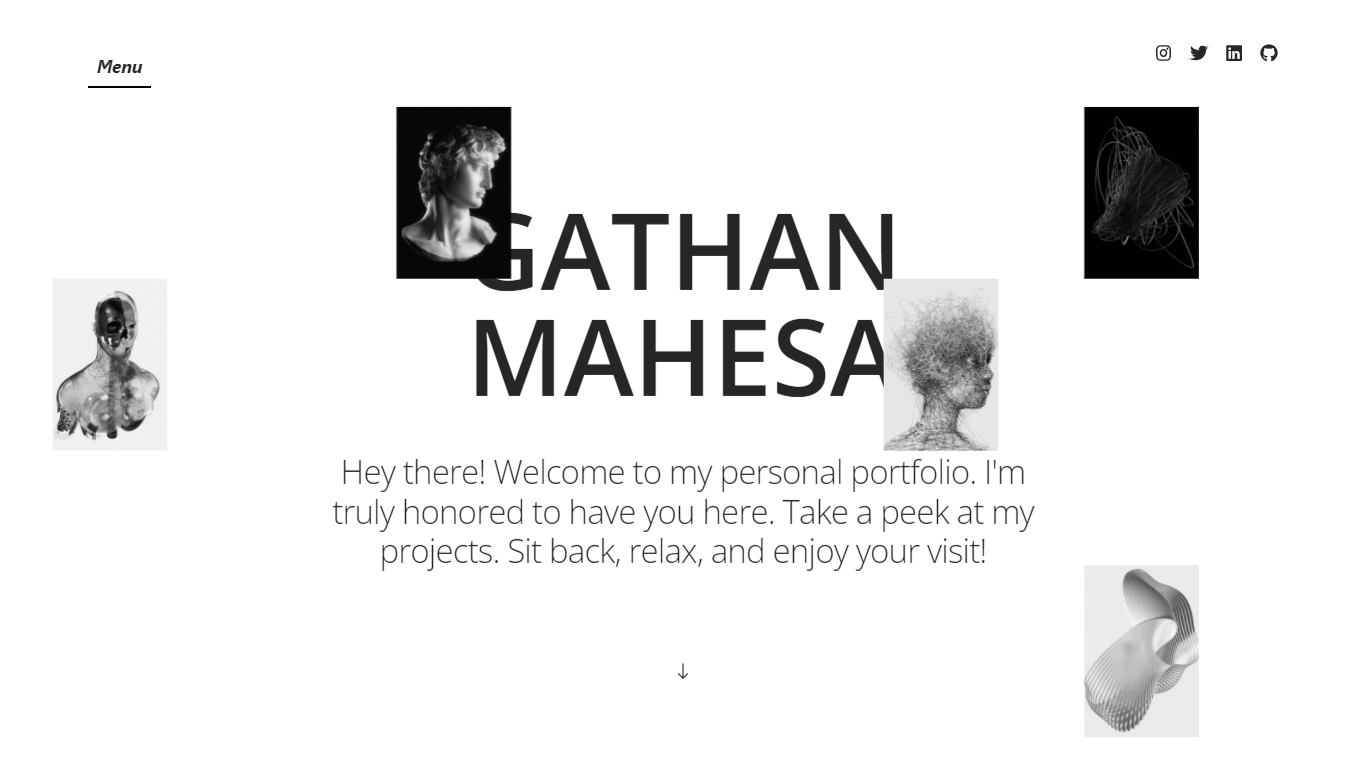
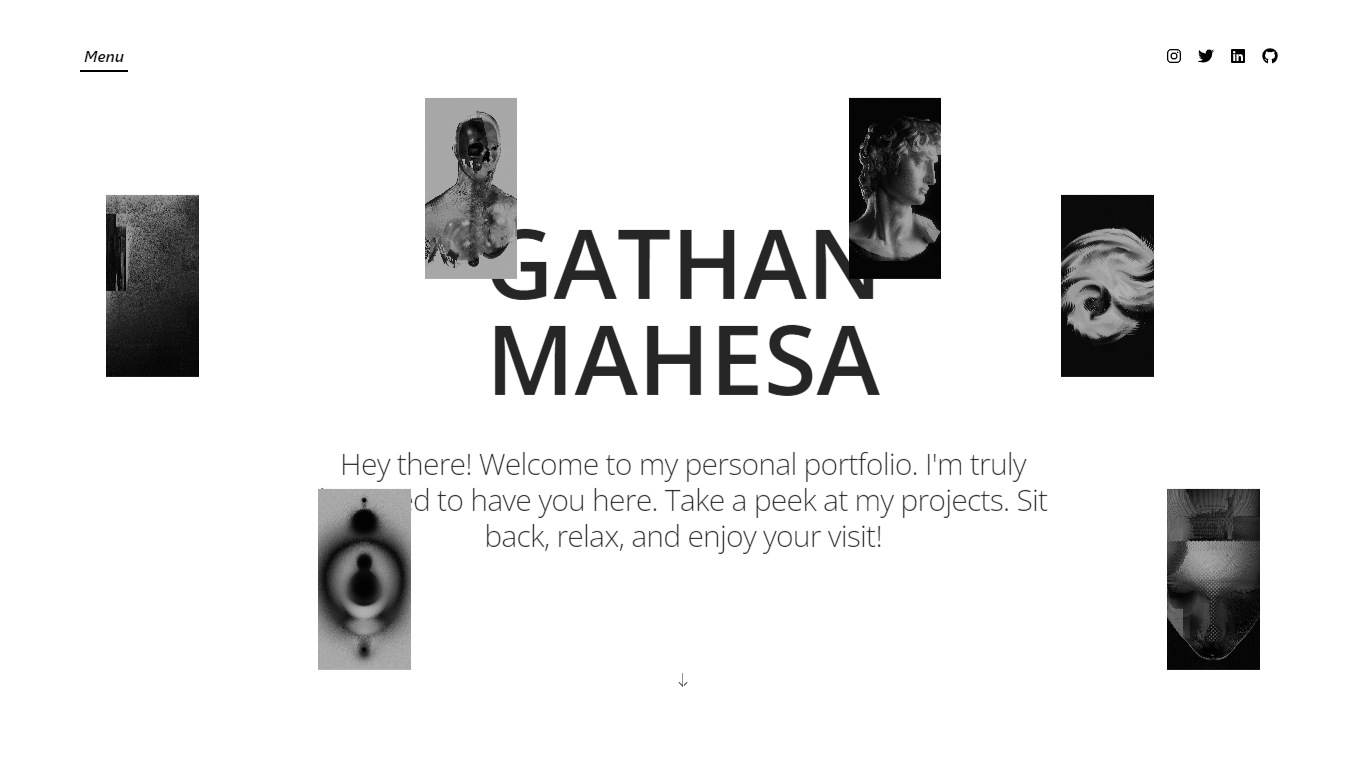
created image animation

diff --git a/src/pages/TableOfContent/Images.jsx b/src/pages/TableOfContent/Images.jsx
@@ -1,0 +1,39 @@
+import { useEffect, useRef } from "react"
+
+export default function Images(){
+  const gridContainerRef = useRef(null)
+
+  useEffect(() => {
+    let current = 0;
+    let target = 0;
+    const ease = 0.05;
+    function lerp (start, end, t){
+      return start * (1 - t) + end * t;
+    }
+
+    function setTransform(element, change) {
+      element.style.transform = change;
+    }
+
+    function smoothImageMovement (){
+      current = lerp(current, target, ease);
+      current = parseFloat(current.toFixed(5))
+      target = window.scrollY;
+      target = parseFloat(target.toFixed(5))
+      setTransform(gridContainerRef.current, `translate3d(0, ${-current / 3}px,0)`);
+      requestAnimationFrame(smoothImageMovement)
+    }
+    smoothImageMovement()  
+  },[])
+
+  return(
+    <div id ="moving-img" ref = {gridContainerRef} className="grid w-screen h-screen">
+      <div className="grid__item grid__item--a" style={{"backgroundImage":"url(/assets/3.jpg)"}}></div>
+      <div className="grid__item grid__item--b" style={{"backgroundImage":"url(/assets/1.jpg)"}}></div>
+      <div className="grid__item grid__item--c" style={{"backgroundImage":"url(/assets/4.jpg)"}}></div>
+      <div className="grid__item grid__item--d" style={{"backgroundImage":"url(/assets/5.jpg)"}}></div>
+      <div className="grid__item grid__item--e" style={{"backgroundImage":"url(/assets/8.jpg)"}}></div>
+      <div className="grid__item grid__item--f" style={{"backgroundImage":"url(/assets/6.jpg)"}}></div>  
+    </div>
+  )
+}

diff --git a/src/pages/Preload/revealer.js b/src/pages/Preload/revealer.js
@@ -14,7 +14,7 @@ export default class Revealer {
         this.layers = [];
         [...document.querySelectorAll('.layers__item')].forEach(item => this.layers.push(new ImageLayer(item)));
         this.layersTotal = this.layers.length;
-        // this.gridItems = [...document.querySelectorAll('.grid__item')];
+        this.gridItems = [...document.querySelectorAll('.grid__item')];
         this.options = {
             duration: 1.25,
             panelDelay: 0.25
@@ -49,12 +49,12 @@ export default class Revealer {
             y: (index) => index ? '101%' : '-101%'
         }, 'halfway')
         // show grid items
-        // .fromTo(this.gridItems, {y: () => randomFloat(100,500)}, {
-        //     duration: this.options.duration*2,
-        //     ease: 'Expo.easeOut',
-        //     y: 0,
-        //     opacity: 1
-        // }, 'halfway');  
+        .fromTo(this.gridItems, {y: () => randomFloat(100,500)}, {
+            duration: this.options.duration*2,
+            ease: 'Expo.easeOut',
+            y: 0,
+            opacity: 1
+        }, 'halfway');  
     }
     reveal() {
         this.tl.restart();

diff --git a/src/component/utils/css/animation.css b/src/component/utils/css/animation.css
@@ -102,4 +102,61 @@
 }
 
 
+.grid {
+  grid-area: 1 / 1 / 2 / 2;
+  /* width: 100%;
+  height: 93%; */
+  display: grid;
+  grid-template-columns: repeat(13,1fr);
+  grid-template-rows: repeat(8,1fr);
+  grid-gap: 1vw;
+  position: absolute;
+  z-index: 50;
+}
 
+
+.grid::after {
+	content: '';
+	height: 6rem;
+	width: 1px;
+	background: #fff;
+	position: absolute;
+	bottom: 2rem;
+	left: 50%;
+}
+
+.intro .grid::after {
+	display: none;
+}
+
+.grid__item {
+    background-size: cover;
+	background-position: center;
+    opacity: 0;
+    -webkit-filter: brightness(0.7);
+    filter: brightness(0.7);
+}
+
+.grid__item--a {
+    grid-area: 3 / 2 / 5 / 3;
+}
+
+.grid__item--b {
+    grid-area: 6 / 4 / 8 / 5;
+}
+
+.grid__item--c {
+    grid-area: 2 / 5 / 4 / 6;
+}
+
+.grid__item--d {
+    grid-area: 2 / 9 / 4 / 10;
+}
+
+.grid__item--e {
+    grid-area: 3 / 11 / 5 / 12;
+}
+
+.grid__item--f {
+    grid-area: 6 / 12 / 8 / 13;
+}

diff --git a/src/pages/TableOfContent/Table.jsx b/src/pages/TableOfContent/Table.jsx
@@ -5,7 +5,6 @@
 import { useEffect, useRef, useContext } from 'react';
 import contents from './TableOfContent.json';
 import { StateContext } from '../../states';
-import Introduction from './Introduction';
 
 const PageNumber = ({ number }) => (
   <h3 className="noto-serif text-base">{number}</h3>
@@ -51,10 +50,9 @@ const Paragraph = ({ paragraph }) => (
   </p>
 );
 
-export default function Layout() {
+export default function Table() {
   return (
     <>
-    <Introduction/>
       {contents.map((content, index) => (
         <section key={index} className="w-screen h-auto transition-opacity duration-500 flex flex-col justify-center items-center gap-10">
           <PageNumber number={index + 1} />

diff --git a/index.html b/index.html
@@ -9,7 +9,7 @@
     
     <meta property="og:title" content="Gathan Mahesa - Frontend Developer"/>
     <meta property="og:description" content="Gathan Mahesa is a web developer that specialize in user interface, motions,animations, and dynamic user experiences."/>
-    <meta property="og:image" content="https://github.com/gthnmp/gathan.vercel.app/blob/master/public/assets/preview/gathan.vercel.app.png?raw=true"/>
+    <meta property="og:image" content="https://github.com/gthnmp/gathan.vercel.app/blob/master/public/assets/preview/share.png?raw=true"/>
     
     <link rel="icon" type="image/svg+xml" href="/logo.svg" />
     <link rel="preconnect" href="https://fonts.googleapis.com">

diff --git a/src/component/SmoothWrapper.jsx b/src/component/SmoothWrapper.jsx
@@ -8,7 +8,7 @@ const SmoothWrapper = ({ className: additionalClassNames, ...props }) => {
   let target = 0;
   let ease = 0.5;
   const defaultClassName =
-    'fixed will-change-transform top-0 w-screen bg-white text-neutral-800 h-max flex items-center px-24 flex-col gap-20 lg:gap-60 z-10 pb-60';
+    'fixed will-change-transform top-0 w-screen bg-white text-neutral-800 h-max flex items-center px-24 flex-col gap-20 lg:gap-40 z-10 pb-60';
   const customizedClassName = `${defaultClassName} ${additionalClassNames}`;
 
   useEffect(() => {

diff --git a/src/pages/TableOfContent/layout.jsx b/src/pages/TableOfContent/layout.jsx
@@ -1,0 +1,13 @@
+import Introduction from "./Introduction"
+import Table from "./Table"
+import Images from "./images"
+
+export default function Layout(){
+  return(
+    <>
+      <Images/>
+      <Introduction/>
+      <Table/>
+    </>
+  )
+}

diff --git a/src/pages/TableOfContent/index.jsx b/src/pages/TableOfContent/index.jsx
@@ -1,1 +1,1 @@
-export { default as TableOfContent }  from './Table'
+export { default as TableOfContent }  from './layout'
